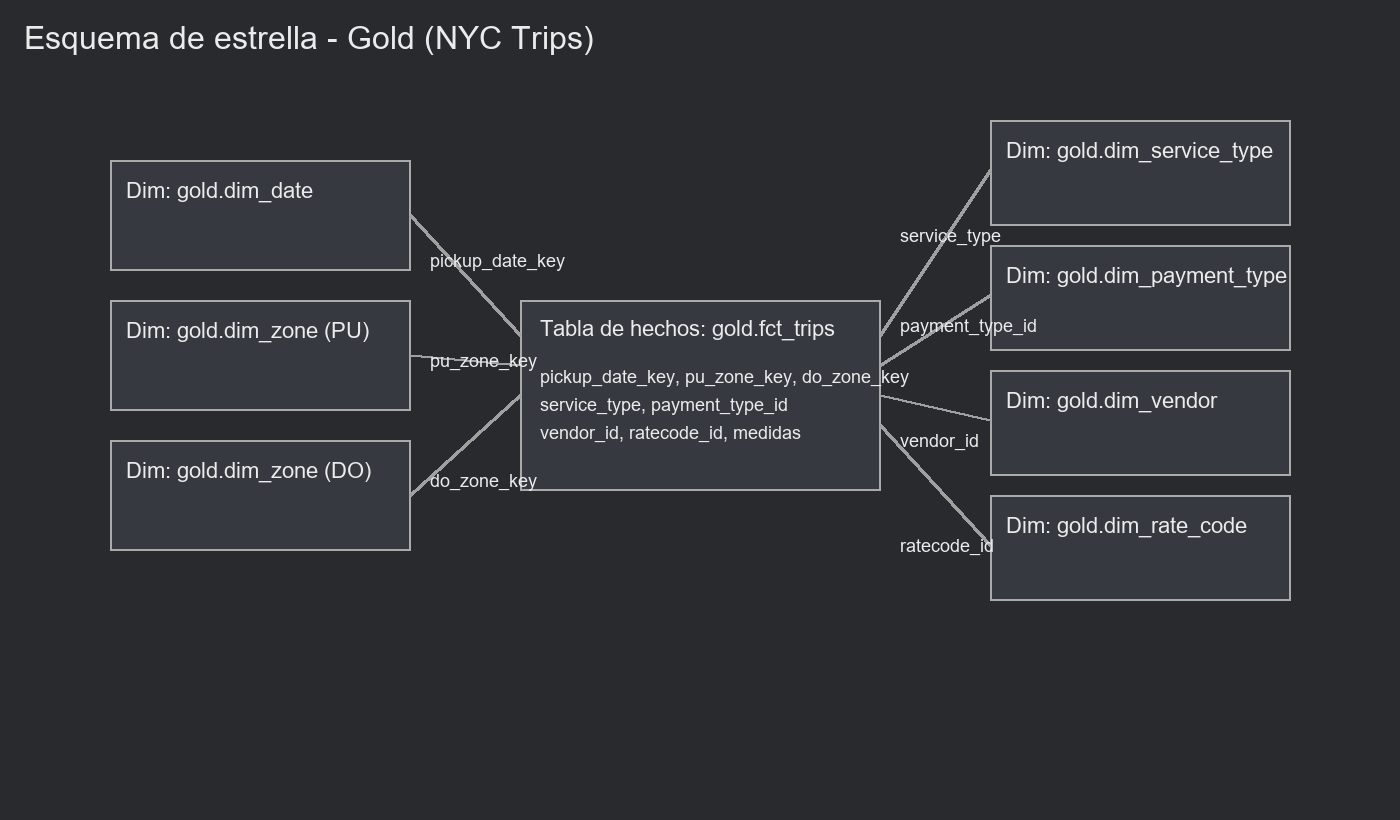
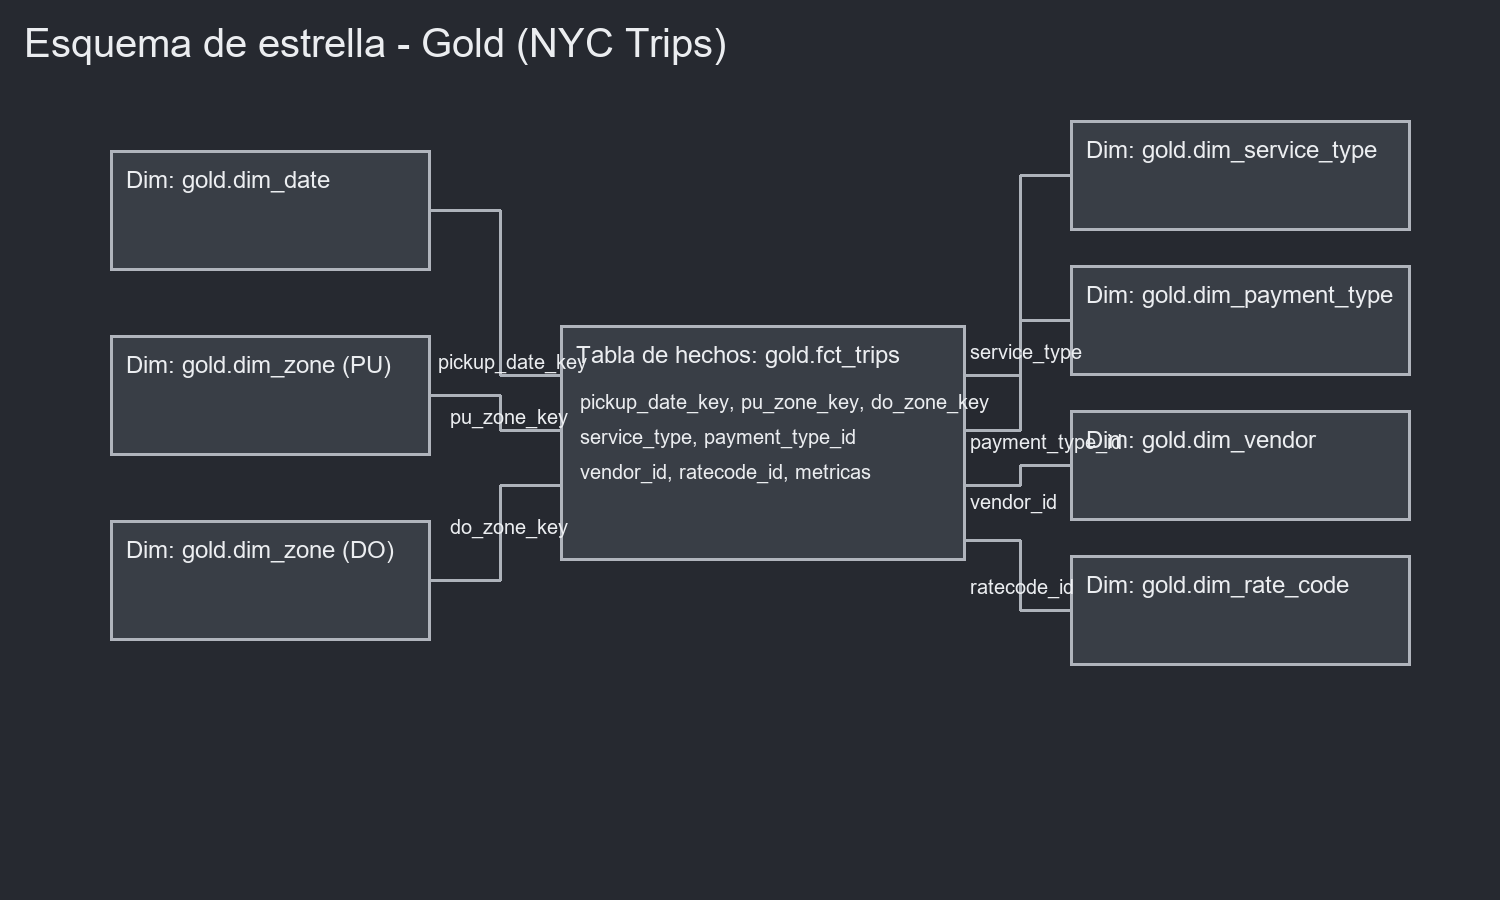
refine star schema layout with aligned connectors

Changed region(s): [[0.0614, 0.122, 0.9521, 0.7622], [0.0, 0.0305, 0.4914, 0.061], [0.0921, 0.7012, 0.2764, 0.7317]]

diff --git a/scripts/generate_star_schema_image.py b/scripts/generate_star_schema_image.py
@@ -1,29 +1,33 @@
 from PIL import Image, ImageDraw, ImageFont
 
 
-W, H = 1400, 820
-BG = (40, 42, 46)
-BOX = (54, 57, 63)
-BORDER = (170, 170, 170)
-TEXT = (235, 235, 235)
-LINE = (160, 160, 160)
+W, H = 1500, 900
+BG = (38, 41, 48)
+BOX = (57, 62, 70)
+BORDER = (176, 180, 188)
+TEXT = (235, 237, 240)
+LINE = (173, 178, 186)
 
 
-def draw_box(draw, x, y, w, h, label, font, title=False):
-    draw.rectangle((x, y, x + w, y + h), fill=BOX, outline=BORDER, width=2)
-    if title:
-        draw.text((x + 20, y + 16), label, fill=TEXT, font=font)
-    else:
-        draw.text((x + 16, y + 18), label, fill=TEXT, font=font)
+def draw_box(draw, rect, label, font):
+    x1, y1, x2, y2 = rect
+    draw.rectangle(rect, fill=BOX, outline=BORDER, width=3)
+    draw.text((x1 + 16, y1 + 16), label, fill=TEXT, font=font)
+
+
+def h_connector(draw, x1, y1, x2, y2, mid_x):
+    draw.line((x1, y1, mid_x, y1), fill=LINE, width=3)
+    draw.line((mid_x, y1, mid_x, y2), fill=LINE, width=3)
+    draw.line((mid_x, y2, x2, y2), fill=LINE, width=3)
 
 
 img = Image.new("RGB", (W, H), BG)
 draw = ImageDraw.Draw(img)
 
 try:
-    title_font = ImageFont.truetype("arial.ttf", 32)
-    box_font = ImageFont.truetype("arial.ttf", 22)
-    small_font = ImageFont.truetype("arial.ttf", 18)
+    title_font = ImageFont.truetype("arial.ttf", 40)
+    box_font = ImageFont.truetype("arial.ttf", 24)
+    small_font = ImageFont.truetype("arial.ttf", 20)
 except Exception:
     title_font = ImageFont.load_default()
     box_font = ImageFont.load_default()
@@ -31,43 +35,51 @@ except Exception:
 
 draw.text((24, 20), "Esquema de estrella - Gold (NYC Trips)", fill=TEXT, font=title_font)
 
-# Center fact box
-fx, fy, fw, fh = 520, 300, 360, 190
-draw_box(draw, fx, fy, fw, fh, "Tabla de hechos: gold.fct_trips", box_font, title=True)
-draw.text((fx + 20, fy + 66), "pickup_date_key, pu_zone_key, do_zone_key", fill=TEXT, font=small_font)
-draw.text((fx + 20, fy + 94), "service_type, payment_type_id", fill=TEXT, font=small_font)
-draw.text((fx + 20, fy + 122), "vendor_id, ratecode_id, medidas", fill=TEXT, font=small_font)
+# Boxes
+fact = (560, 325, 965, 560)
+dim_date = (110, 150, 430, 270)
+dim_pu = (110, 335, 430, 455)
+dim_do = (110, 520, 430, 640)
+dim_service = (1070, 120, 1410, 230)
+dim_payment = (1070, 265, 1410, 375)
+dim_vendor = (1070, 410, 1410, 520)
+dim_rate = (1070, 555, 1410, 665)
 
-# Dimension boxes
-draw_box(draw, 110, 160, 300, 110, "Dim: gold.dim_date", box_font)
-draw_box(draw, 110, 300, 300, 110, "Dim: gold.dim_zone (PU)", box_font)
-draw_box(draw, 110, 440, 300, 110, "Dim: gold.dim_zone (DO)", box_font)
+draw_box(draw, fact, "Tabla de hechos: gold.fct_trips", box_font)
+draw.text((580, 390), "pickup_date_key, pu_zone_key, do_zone_key", fill=TEXT, font=small_font)
+draw.text((580, 425), "service_type, payment_type_id", fill=TEXT, font=small_font)
+draw.text((580, 460), "vendor_id, ratecode_id, metricas", fill=TEXT, font=small_font)
 
-draw_box(draw, 990, 120, 300, 105, "Dim: gold.dim_service_type", box_font)
-draw_box(draw, 990, 245, 300, 105, "Dim: gold.dim_payment_type", box_font)
-draw_box(draw, 990, 370, 300, 105, "Dim: gold.dim_vendor", box_font)
-draw_box(draw, 990, 495, 300, 105, "Dim: gold.dim_rate_code", box_font)
+draw_box(draw, dim_date, "Dim: gold.dim_date", box_font)
+draw_box(draw, dim_pu, "Dim: gold.dim_zone (PU)", box_font)
+draw_box(draw, dim_do, "Dim: gold.dim_zone (DO)", box_font)
+draw_box(draw, dim_service, "Dim: gold.dim_service_type", box_font)
+draw_box(draw, dim_payment, "Dim: gold.dim_payment_type", box_font)
+draw_box(draw, dim_vendor, "Dim: gold.dim_vendor", box_font)
+draw_box(draw, dim_rate, "Dim: gold.dim_rate_code", box_font)
 
-# Left connectors
-draw.line((410, 215, 520, 335), fill=LINE, width=3)
-draw.line((410, 355, 520, 365), fill=LINE, width=3)
-draw.line((410, 495, 520, 395), fill=LINE, width=3)
+# Connectors (left)
+mid_left = 500
+h_connector(draw, dim_date[2], (dim_date[1] + dim_date[3]) // 2, fact[0], 375, mid_left)
+h_connector(draw, dim_pu[2], (dim_pu[1] + dim_pu[3]) // 2, fact[0], 430, mid_left)
+h_connector(draw, dim_do[2], (dim_do[1] + dim_do[3]) // 2, fact[0], 485, mid_left)
 
-# Right connectors
-draw.line((880, 335, 990, 170), fill=LINE, width=3)
-draw.line((880, 365, 990, 295), fill=LINE, width=3)
-draw.line((880, 395, 990, 420), fill=LINE, width=3)
-draw.line((880, 425, 990, 545), fill=LINE, width=3)
+# Connectors (right)
+mid_right = 1020
+h_connector(draw, fact[2], 375, dim_service[0], (dim_service[1] + dim_service[3]) // 2, mid_right)
+h_connector(draw, fact[2], 430, dim_payment[0], (dim_payment[1] + dim_payment[3]) // 2, mid_right)
+h_connector(draw, fact[2], 485, dim_vendor[0], (dim_vendor[1] + dim_vendor[3]) // 2, mid_right)
+h_connector(draw, fact[2], 540, dim_rate[0], (dim_rate[1] + dim_rate[3]) // 2, mid_right)
 
-# Labels on connectors
-draw.text((430, 250), "pickup_date_key", fill=TEXT, font=small_font)
-draw.text((430, 350), "pu_zone_key", fill=TEXT, font=small_font)
-draw.text((430, 470), "do_zone_key", fill=TEXT, font=small_font)
-draw.text((900, 225), "service_type", fill=TEXT, font=small_font)
-draw.text((900, 315), "payment_type_id", fill=TEXT, font=small_font)
-draw.text((900, 430), "vendor_id", fill=TEXT, font=small_font)
-draw.text((900, 535), "ratecode_id", fill=TEXT, font=small_font)
+# Labels on lines
+draw.text((438, 350), "pickup_date_key", fill=TEXT, font=small_font)
+draw.text((450, 405), "pu_zone_key", fill=TEXT, font=small_font)
+draw.text((450, 515), "do_zone_key", fill=TEXT, font=small_font)
+draw.text((970, 340), "service_type", fill=TEXT, font=small_font)
+draw.text((970, 430), "payment_type_id", fill=TEXT, font=small_font)
+draw.text((970, 490), "vendor_id", fill=TEXT, font=small_font)
+draw.text((970, 575), "ratecode_id", fill=TEXT, font=small_font)
 
-out = r"F:/Deber2/Evidencias/Esquema Estrella Gold.png"
+out = r"F:/Deber2/Evidencias/Esquema Estrella Gold v2.png"
 img.save(out)
 print(out)
